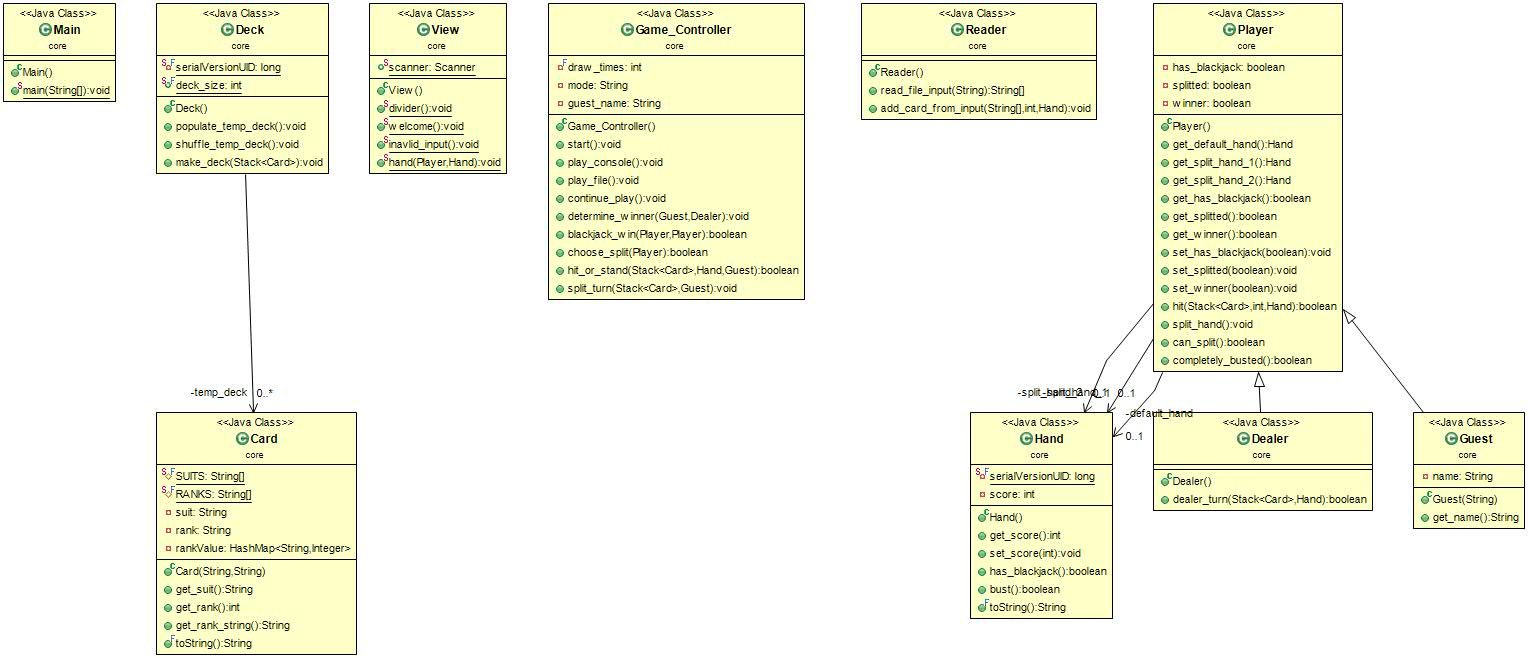
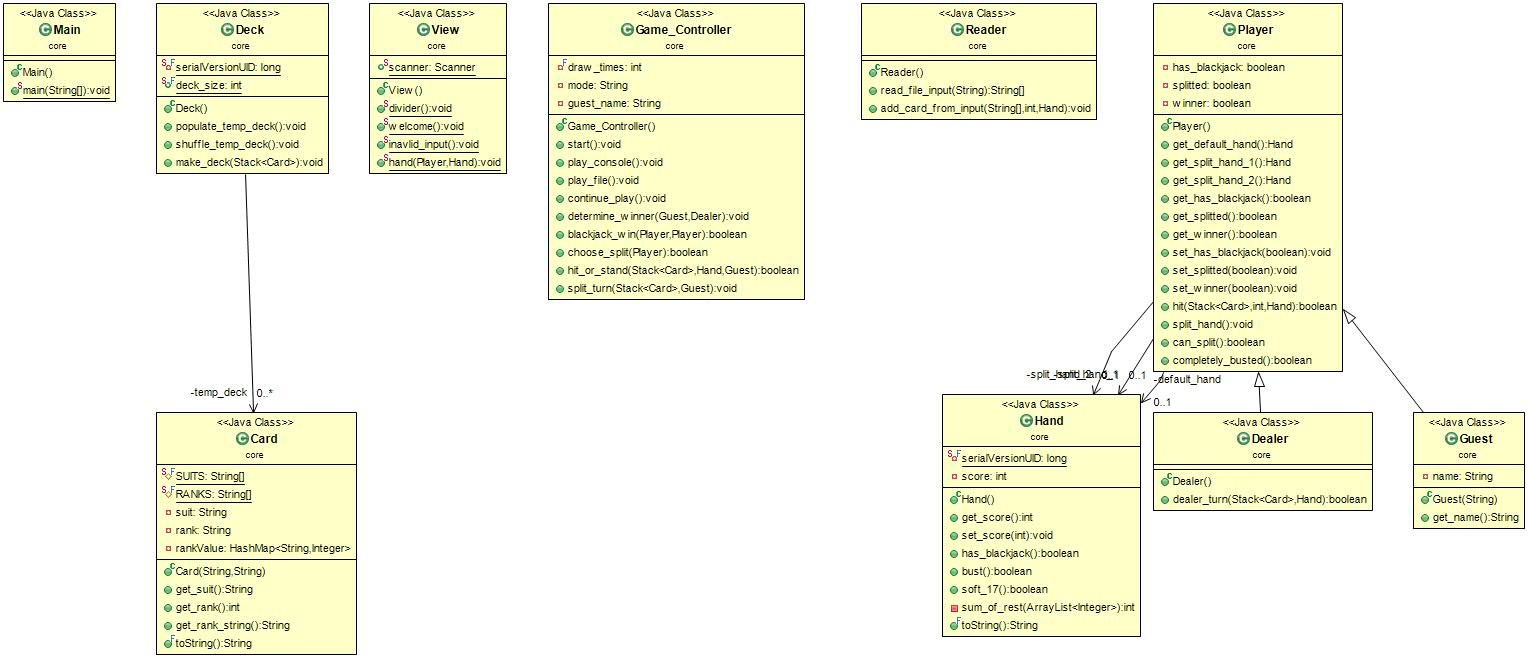
Soft 17
* Hand recognizes soft 17
* Used by dealer

Changed region(s): [[0.6152, 0.5471, 0.7997, 0.9726]]

diff --git a/Maven_Project/src/test/java/core/Tests.java b/Maven_Project/src/test/java/core/Tests.java
@@ -10,7 +10,9 @@ public class Tests extends TestCase {
 	/*************
 	 * VARIABLES * 
 	 *************/
+	Card ace_c = new Card("C", "A");
 	Card ace_d = new Card("D", "A");
+	Card ace_h = new Card("H", "A");
 	Card ace_s = new Card("S", "A");
 	Card two_c = new Card("C", "2");
 	Card two_s = new Card("S", "2");
@@ -272,22 +274,65 @@ public class Tests extends TestCase {
 	 * R27
 	 * Dealer has soft 17, thus it hits
 	 */
-	//	public void test_Dealer_Soft_17() {
-	//		System.out.println("\nR27 - Dealer has soft 17, thus it hits");
-	//		View.divider();
-	//		
-	//		dealer.get_default_hand().add(ace_d);
-	//		dealer.get_default_hand().add(six_s);
-	//		
-	//		System.out.println(dealer.get_default_hand());
-	//		
-	//		deck_maker.make_deck(deck_1);
-	//		temp_card_1 = deck_1.peek();
-	//		
-	//		dealer.dealer_turn(deck_1, dealer.get_default_hand());
-	//		
-	//		assertFalse(temp_card_1 == deck_1.peek());
-	//	}
+	public void test_Soft_17() {
+		// Case 1
+		guest.get_default_hand().add(ace_d);
+		assertFalse(guest.get_default_hand().soft_17());
+
+		guest.get_default_hand().add(two_c);
+		assertFalse(guest.get_default_hand().soft_17());
+
+		guest.get_default_hand().add(four_h);
+		assertTrue(guest.get_default_hand().soft_17());
+
+		guest.get_default_hand().clear();
+
+		// Case 2
+		guest.get_default_hand().add(ace_d);
+		assertFalse(guest.get_default_hand().soft_17());
+
+		guest.get_default_hand().add(ace_s);
+		assertFalse(guest.get_default_hand().soft_17());
+
+		guest.get_default_hand().add(two_c);
+		assertFalse(guest.get_default_hand().soft_17());
+
+		guest.get_default_hand().add(three_s);
+		assertTrue(guest.get_default_hand().soft_17());
+
+		guest.get_default_hand().clear();
+
+		// Case 3
+		guest.get_default_hand().add(ace_d);
+		assertFalse(guest.get_default_hand().soft_17());
+
+		guest.get_default_hand().add(ace_s);
+		assertFalse(guest.get_default_hand().soft_17());
+
+		guest.get_default_hand().add(ace_h);
+		assertFalse(guest.get_default_hand().soft_17());
+
+		guest.get_default_hand().add(four_h);
+		assertTrue(guest.get_default_hand().soft_17());
+
+		guest.get_default_hand().clear();
+
+		// Case 4
+		guest.get_default_hand().add(ace_c);
+		assertFalse(guest.get_default_hand().soft_17());
+
+		guest.get_default_hand().add(ace_d);
+		assertFalse(guest.get_default_hand().soft_17());
+
+		guest.get_default_hand().add(ace_h);
+		assertFalse(guest.get_default_hand().soft_17());
+
+		guest.get_default_hand().add(ace_s);
+		assertFalse(guest.get_default_hand().soft_17());
+
+		guest.get_default_hand().add(three_s);
+		assertTrue(guest.get_default_hand().soft_17());
+	}
 
 	/**
 	 * R28
@@ -649,19 +694,19 @@ public class Tests extends TestCase {
 	//	public void test_Player_Split() {
 	//		System.out.println("\nR47 - Test player splitting");
 	//		View.divider();
-	//		
+	//
 	//		guest.get_default_hand().add(two_c);
 	//		guest.get_default_hand().add(two_s);
-	//		
+	//
 	//		dealer.get_default_hand().add(five_d);
-	//		
+	//
 	//		deck_maker.make_deck(deck_1);
-	//		
+	//
 	//		if(game.choose_split(guest)) {
 	//			guest.split_hand();
 	//			game.split_turn(deck_1, guest);
 	//		}
-	//		
+	//
 	//		game.determine_winner(guest, dealer);
 	//	}
 
@@ -672,21 +717,21 @@ public class Tests extends TestCase {
 	//	public void test_Dealer_Split() {
 	//		System.out.println("\nR48 - Test dealer splitting");
 	//		View.divider();
-	//		
+	//
 	//		dealer.get_default_hand().add(nine_s);
 	//		dealer.get_default_hand().add(nine_c);
-	//		
+	//
 	//		guest.get_default_hand().add(eight_c);
 	//		guest.get_default_hand().add(two_c);
-	//		
+	//
 	//		deck_maker.make_deck(deck_1);
-	//		
+	//
 	//		if(game.choose_split(dealer)) {
 	//			dealer.split_hand();
-	//			dealer.dealer_turn(deck_1, guest, dealer.get_split_hand_1());
-	//			dealer.dealer_turn(deck_1, guest, dealer.get_split_hand_2());
+	//			dealer.dealer_turn(deck_1, dealer.get_split_hand_1());
+	//			dealer.dealer_turn(deck_1, dealer.get_split_hand_2());
 	//		}
-	//		
+	//
 	//		game.determine_winner(guest, dealer);
 	//	}
 

diff --git a/Maven_Project/src/main/java/core/Hand.java b/Maven_Project/src/main/java/core/Hand.java
@@ -104,6 +104,58 @@ public class Hand extends ArrayList<Card>{
 		if(get_score() > 21) return true;
 		else return false;
 	}
+	
+	/**
+	 * @return true if this hand has a soft 17
+	 */
+	public boolean soft_17() {
+		if(get_score() == 17) {
+			int number_of_aces = 0;
+			ArrayList<Integer> ace_indices = new ArrayList<>();
+			
+			for(int i = 0; i < size(); i++) {
+				if(get(i).get_rank() == 14) {
+					number_of_aces++;
+					ace_indices.add(i);
+				}
+			}
+			
+			switch(number_of_aces) {
+			case 1:
+				if(sum_of_rest(ace_indices) == 6) return true;
+				else return false;
+			case 2:
+				if(sum_of_rest(ace_indices) == 5) return true;
+				else return false;
+			case 3:
+				if(sum_of_rest(ace_indices) == 4) return true;
+				else return false;
+			case 4:
+				if(sum_of_rest(ace_indices) == 3) return true;
+				else return false;
+			default:
+				return false;
+			}
+		}
+		else return false;
+	}
+	
+	/**
+	 * Helper function for soft_17().
+	 * @param ace_indices
+	 * @return sum of card points other than the one ace worth 11 points
+	 */
+	private int sum_of_rest(ArrayList<Integer> ace_indices) {
+		int sum = 0;
+		
+		for(int i = 0; i < size(); i++) {
+			if(!ace_indices.contains(i)) {
+				sum += get(i).get_rank();
+			}
+		}
+		
+		return sum;
+	}
 
 	@Override
 	public final String toString() {

diff --git a/Maven_Project/src/main/java/core/Game_Controller.java b/Maven_Project/src/main/java/core/Game_Controller.java
@@ -295,17 +295,17 @@ public class Game_Controller {
 		}
 
 		if(guest.get_has_blackjack() && !dealer.get_has_blackjack()) {
-			System.out.println(guest_name + " has blackjack and dealer does not.\nWinner: " + guest_name);
+			System.out.println(guest_name + " has blackjack, but dealer does not.\nWinner: " + guest_name);
 			guest.set_winner(true);
 			return true;
 		}
 		else if(!guest.get_has_blackjack() && dealer.get_has_blackjack()) {
-			System.out.println(guest_name + " does not have a blackjack, but dealer does.\nWinner: Dealer");
+			System.out.println(guest_name + " does not have blackjack, but dealer does.\nWinner: Dealer");
 			dealer.set_winner(true);
 			return true;
 		}
 		else if(guest.get_has_blackjack() && dealer.get_has_blackjack()) {
-			System.out.println("Both " + guest_name + " and dealer have a blackjack.\nWinner: Dealer");
+			System.out.println("Both " + guest_name + " and dealer have blackjack.\nWinner: Dealer");
 			dealer.set_winner(true);
 			return true;
 		}

diff --git a/Maven_Project/src/main/java/core/Dealer.java b/Maven_Project/src/main/java/core/Dealer.java
@@ -12,7 +12,7 @@ public class Dealer extends Player {
 	 */
 	public boolean dealer_turn(Stack<Card> deck, Hand dealer_hand) {
 		boolean return_code = false;
-		while(dealer_hand.get_score() <= 16) return_code = return_code | hit(deck, 1, dealer_hand);
+		while(dealer_hand.get_score() <= 16 || dealer_hand.soft_17()) return_code = return_code | hit(deck, 1, dealer_hand);
 		return return_code;
 	}
 
